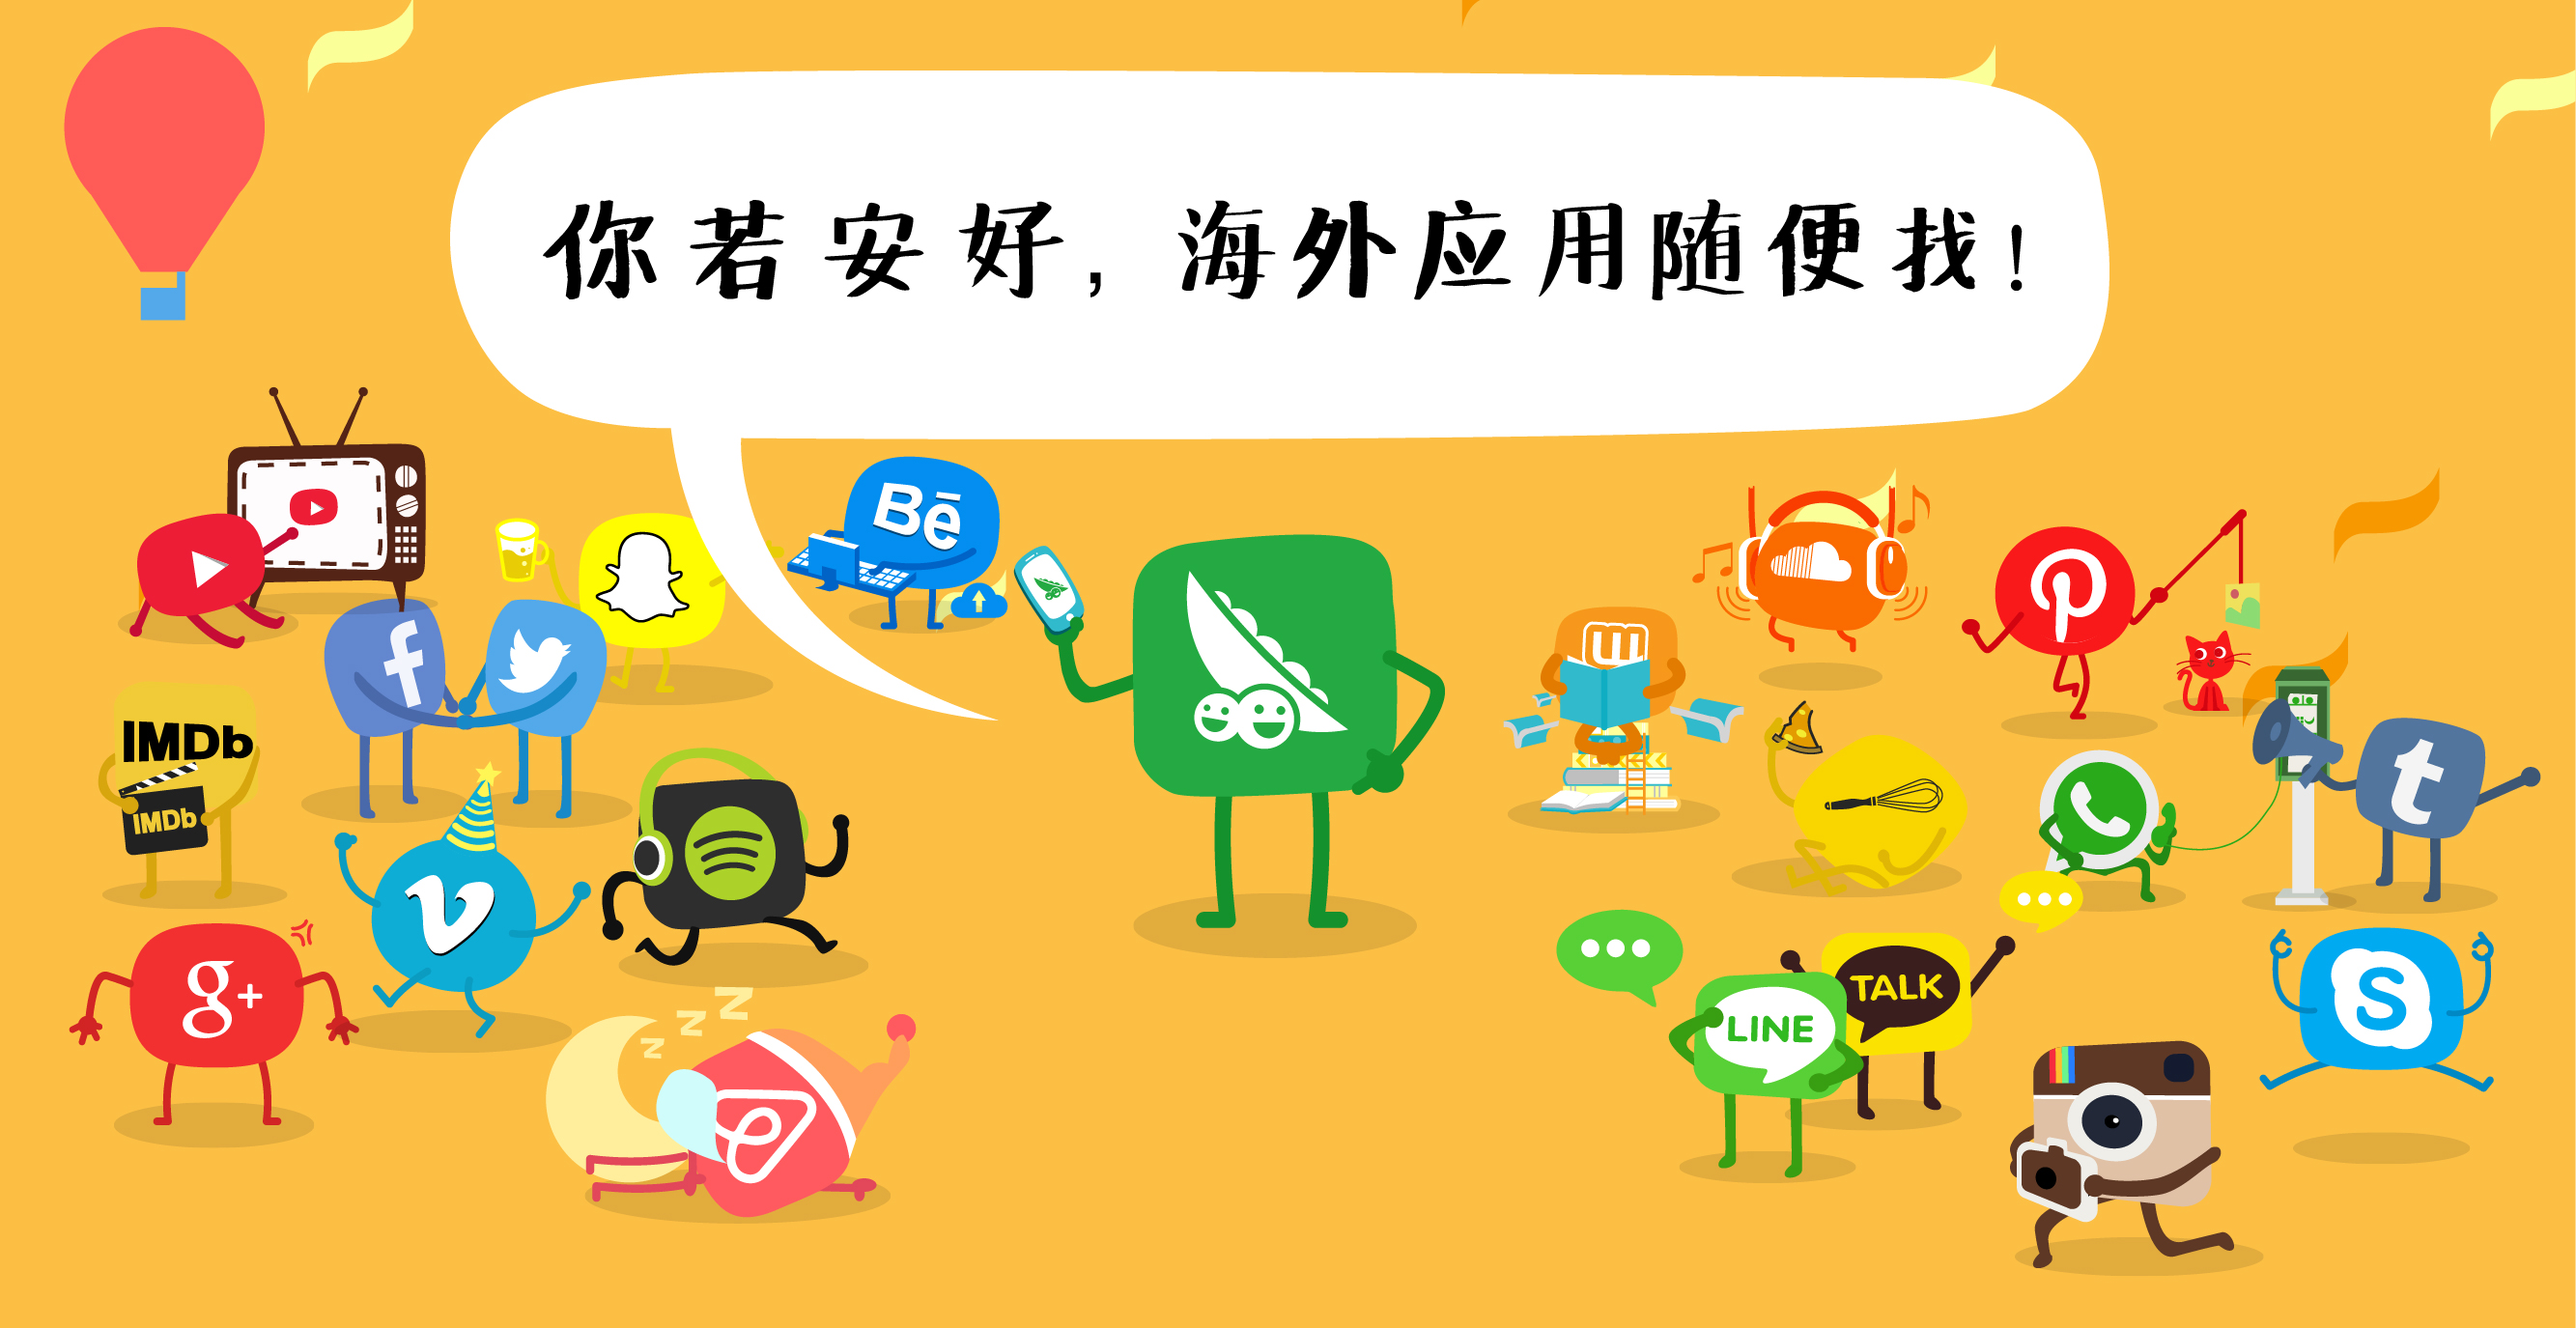
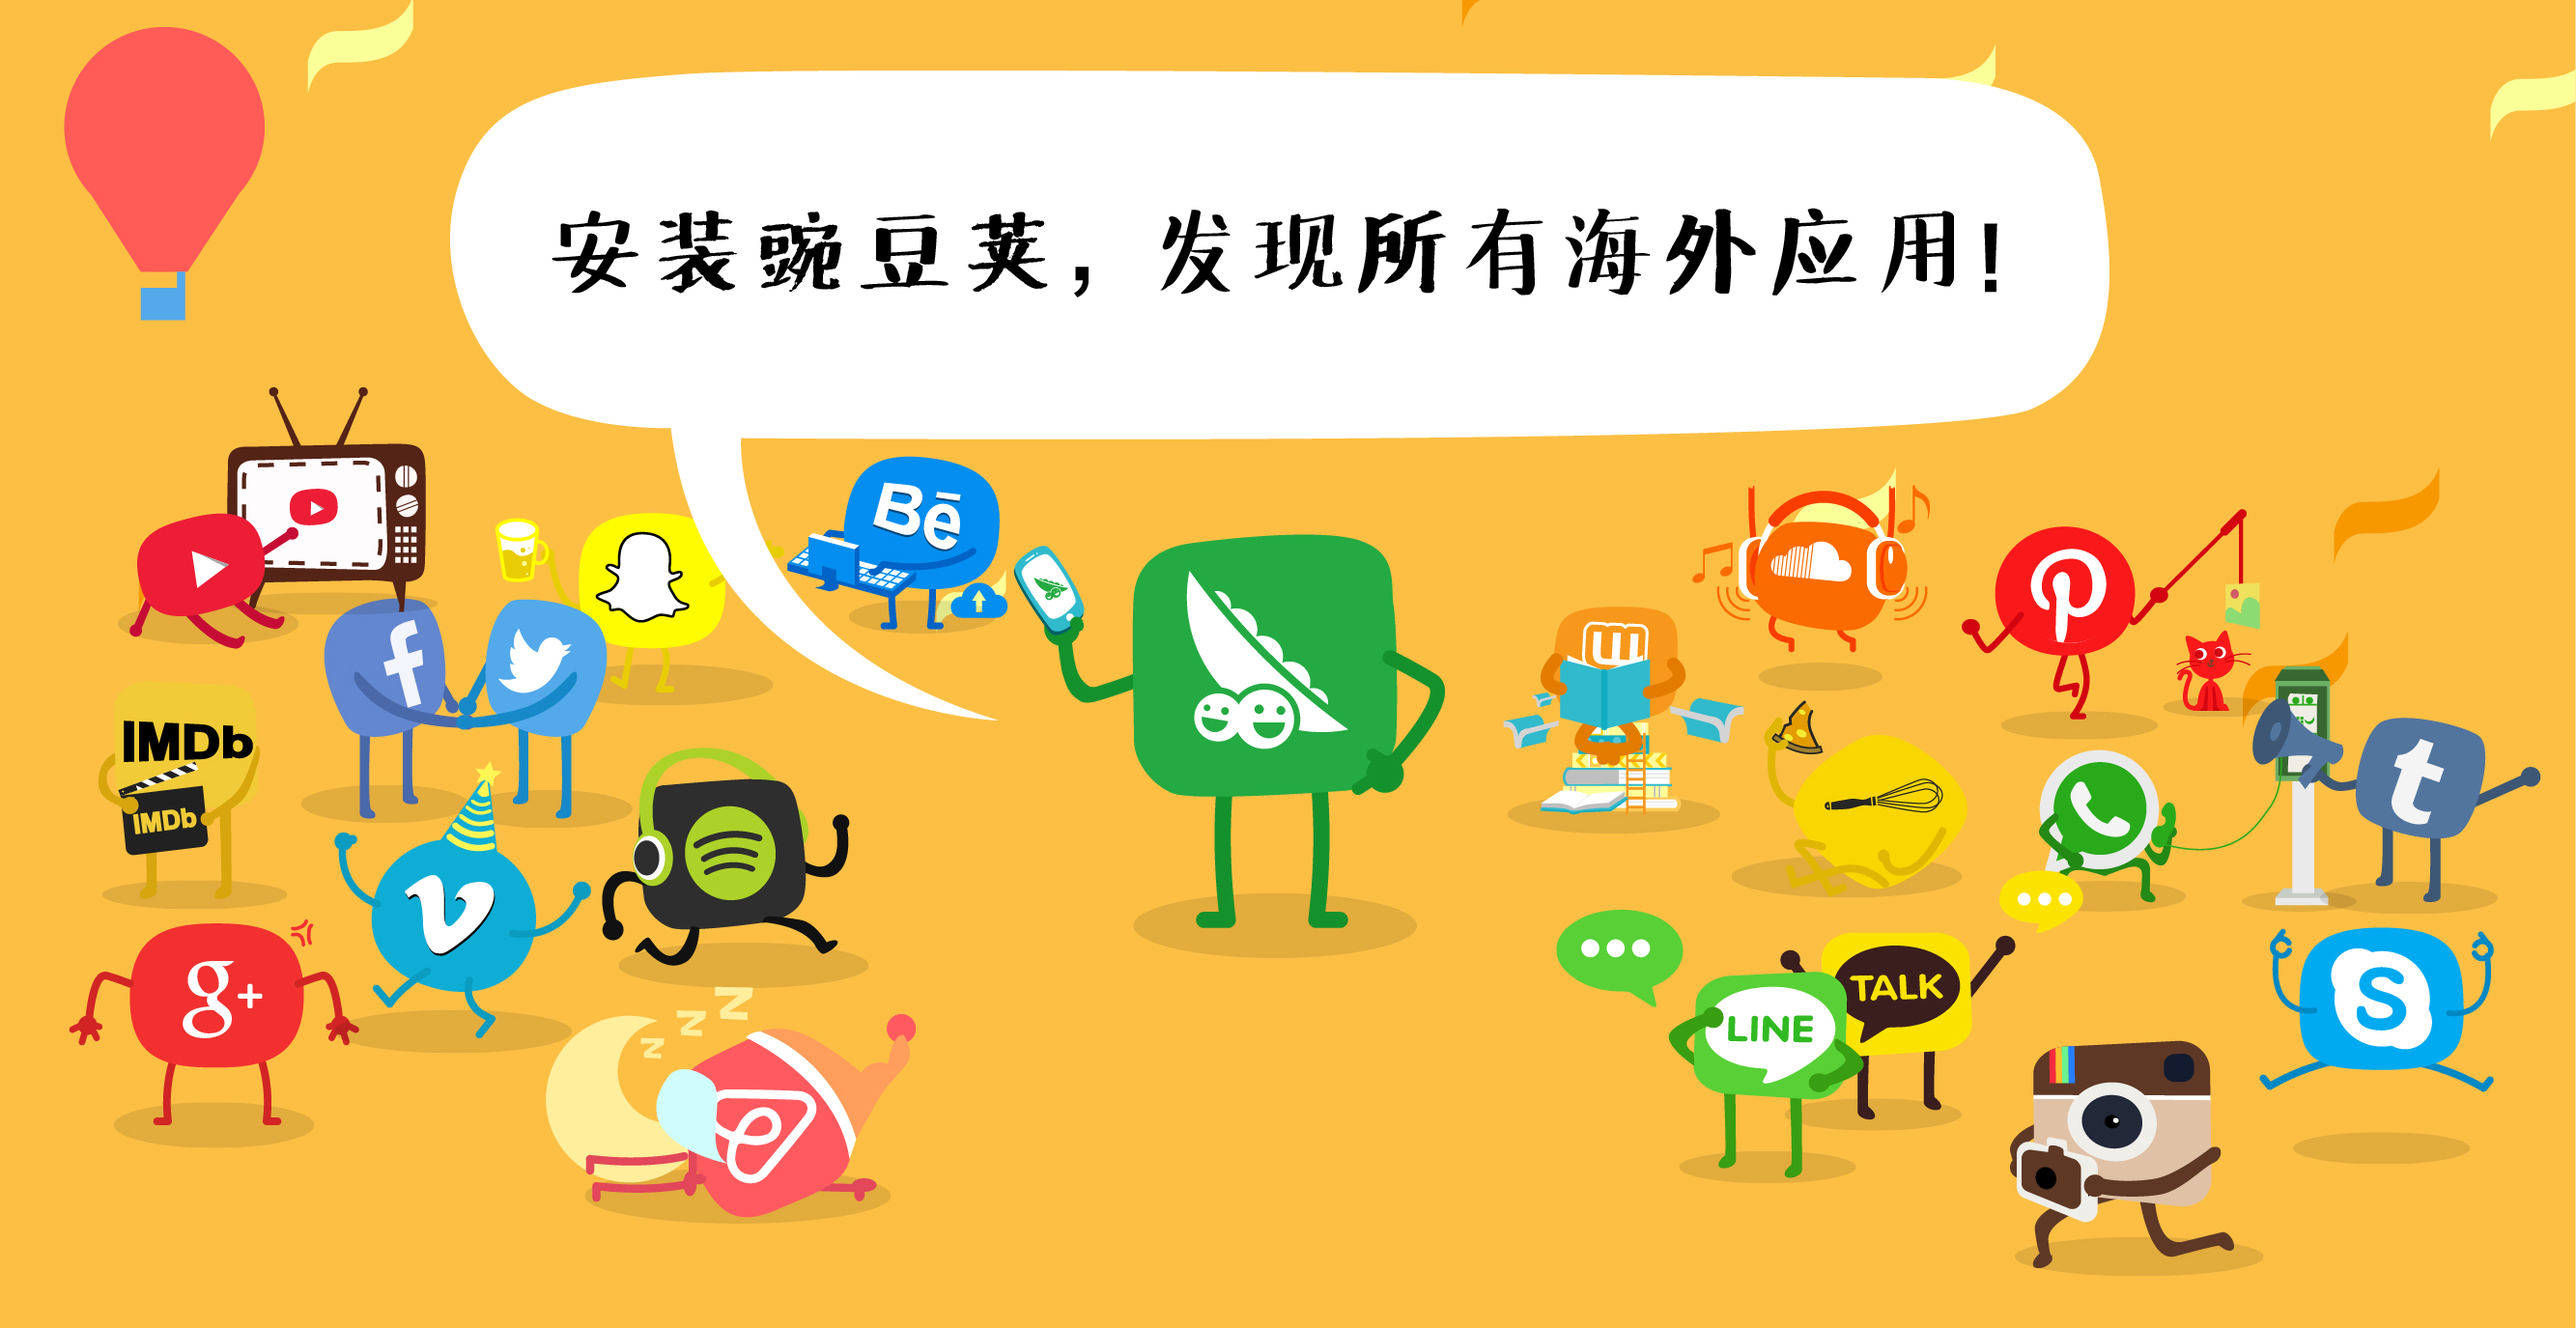
文字等小修改

Changed region(s): [[0.2178, 0.1527, 0.778, 0.2444]]

diff --git a/index.html b/index.html
@@ -36,7 +36,7 @@
 						从国内外 29 家应用商店的应用中<br/>
 						找到你手机应用的海外同类。
 					</div>
-					<div class="button">马上试试</div>
+					<div class="button">马上翻译我的手机</div>
 				</div>
 			</div>
 		</div>
@@ -44,13 +44,13 @@
 			<div class="icons"></div>
 			<div class="scan"></div>
 			<div class="gray">
-				<p>调动全网海外应用<br/>为你翻译中</p>
+				<p>正在为你挑选翻译结果</p>
 			</div>
 		</div>
 		<div class="page list" style="display:none;">
 			<div class="content">
 				<div class="top section">
-					<div class="title">安装豌豆荚，<br/>才能翻译你手机的应用哦</div>
+					<div class="title">翻译出了一点问题…<br/>监测到你未安装豌豆荚</div>
 					<img src="images/nodetect.jpg" alt="">
 					<div class="button">安装</div>
 				</div>
@@ -63,7 +63,11 @@
 				<div class="items all section">
 					<div class="title">
 						<div class="inside">这里还有 300 个热门翻译结果哦</div>
-						<div class="outside">没安好也不亏，<br/>这里有万里挑一的热门翻译结果</div>
+						<div class="outside">
+							没安装也不亏，<br/>
+							豌豆荚收录了全网 29 家应用商店的应用，<br/>
+							从百万海外应用中为你推荐热门结果：
+						</div>
 						<div class="border-bottom"></div>
 					</div>
 				</div>
@@ -100,7 +104,10 @@
 					29家应用商店的应用，<br/>
 					你想要的都找得到。<br/>
 				</div>
-				<div class="button">进入专区</div>
+				<div class="button">
+					<span class="inside">进入专区</span>
+					<span class="outside">安装豌豆荚</span>
+				</div>
 				<div class="note">
 					<div class="logo"></div>
 					<div class="title1">

diff --git a/js/app.js b/js/app.js
@@ -213,11 +213,6 @@ $(document).ready(function(){
 	if(campaignTools.UA.inIos){
 		$('.share .button').hide();
 	}else{
-		if(campaignTools.UA.inWdj){
-			$('.share .button').text('进入专区');
-		}else{
-			$('.share .button').text('安装豌豆荚');
-		}
 		$('.share .button').click(function(){
 			if(campaignTools.UA.inWdj){
 				window.location = 'http://www.wandoujia.com/';
